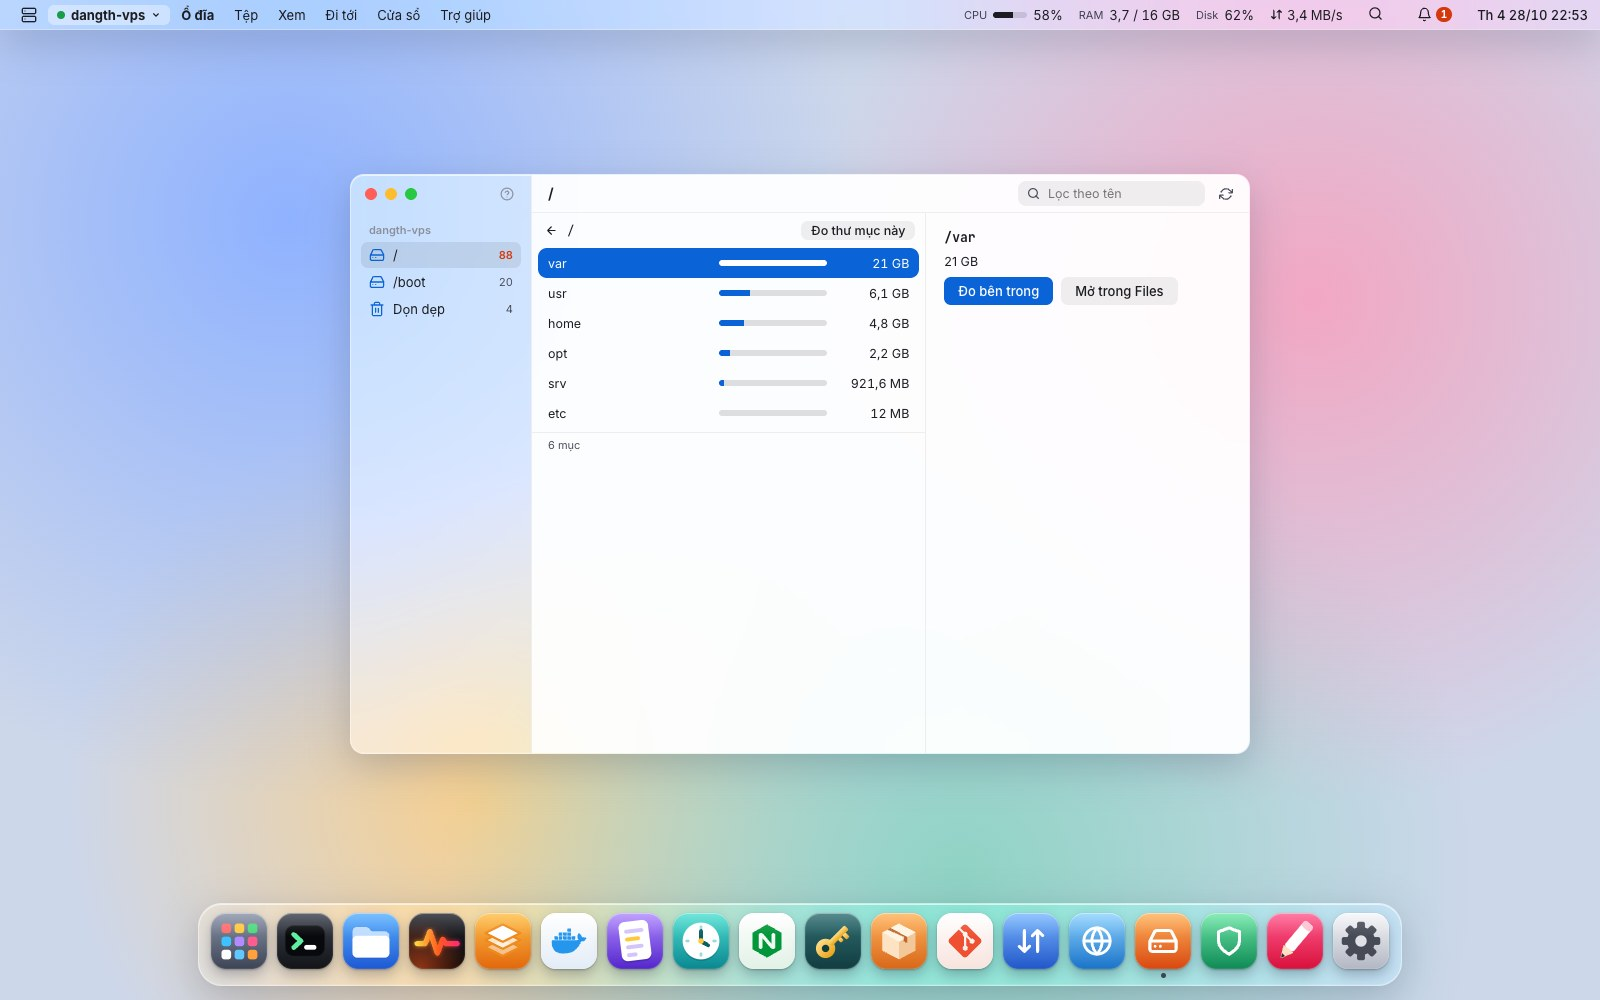
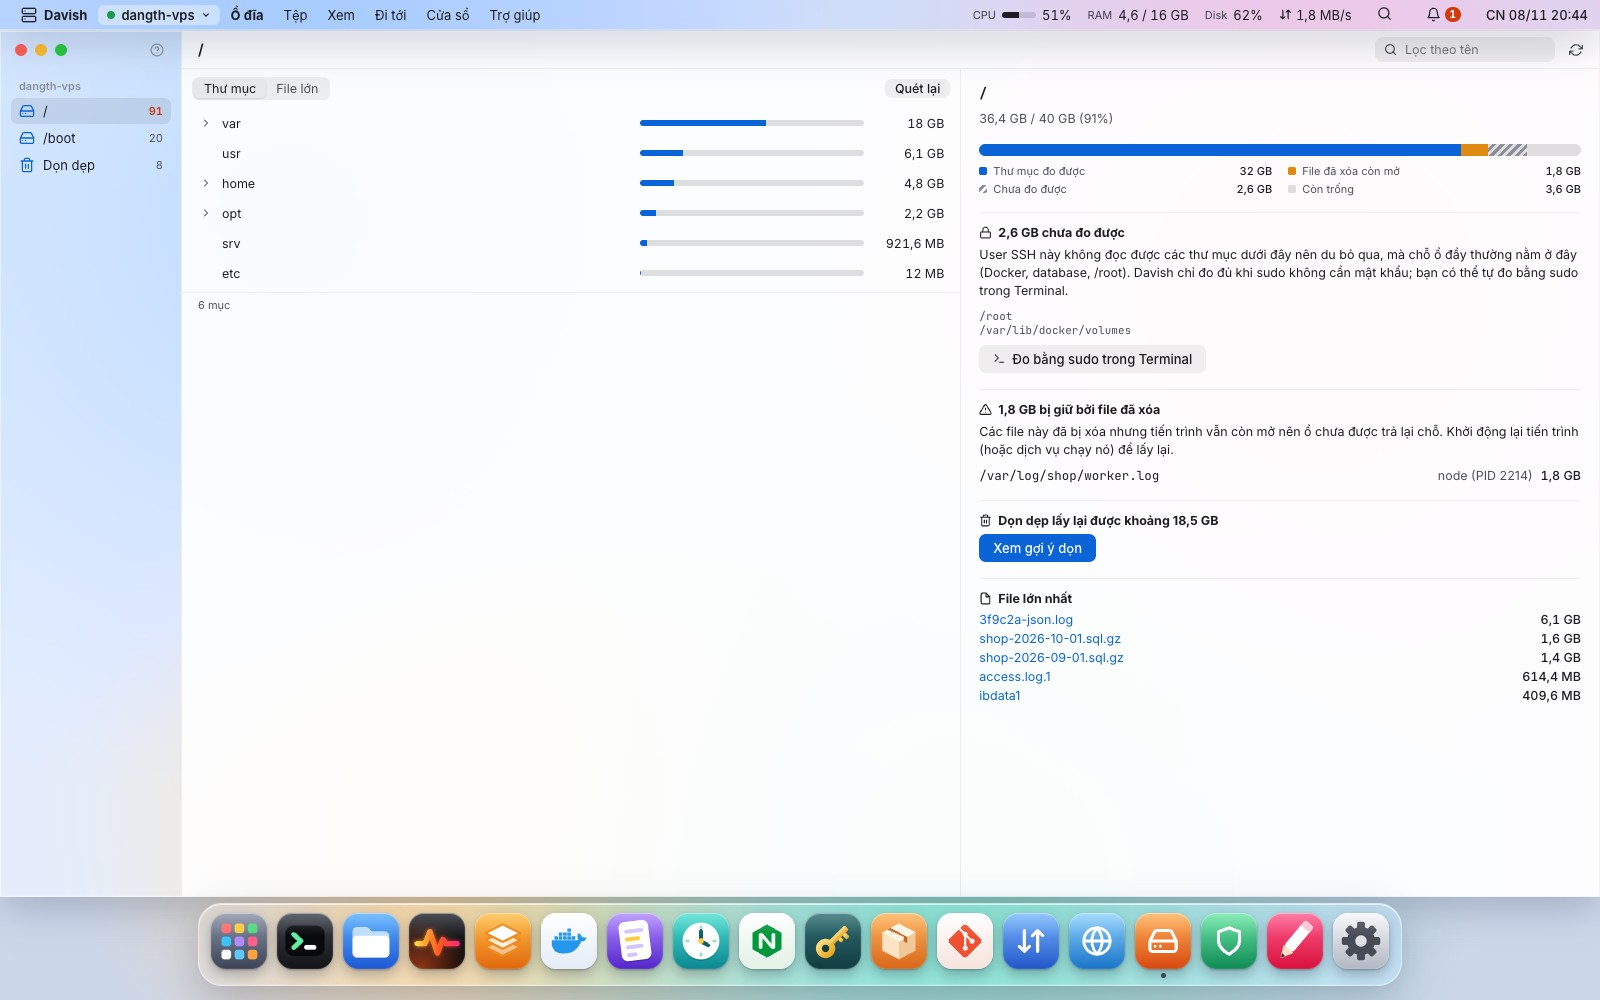
docs(repo): document the disk overview, tree and cleanups
Also keeps a cleanup's file count apart from its size, and lets long
cleanup commands wrap between words.

diff --git a/frontend/src/lib/i18n/vi.ts b/frontend/src/lib/i18n/vi.ts
@@ -906,13 +906,20 @@ const vi = {
         ],
       },
       disk: {
-        does: 'Thứ gì chiếm ổ đĩa: đo từng thư mục một, đi sâu từng tầng; gợi ý dọn dẹp kèm dung lượng lấy lại.',
-        actions: ['Đo thư mục, bấm đúp để đi sâu', 'Dọn Docker, journal, log cũ, cache gói'],
-        keys: ['Enter: đi sâu', 'Backspace: lên thư mục cha'],
+        does: 'Ổ đĩa nặng ở đâu: quét cả ổ một lần, xem dạng cây và file lớn nhất, chỉ ra phần chưa đo được và file đã xóa còn bị giữ; dọn, xóa hoặc làm rỗng file.',
+        actions: [
+          'Tổng quan: thanh ổ đĩa theo phần, lý do phần chưa đo được, file đã xóa còn mở',
+          'Cây thư mục: bấm mũi tên hoặc bấm đúp để mở, tầng sâu được đo khi mở',
+          'File lớn: file từ 50 MB, làm rỗng (log) hoặc xóa',
+          'Dọn dẹp: Docker (image, container, cache build, volume, log), journal, log cũ, cache gói, /tmp, snap, ~/.cache, npm',
+          'Xóa thư mục hoặc file sau khi xem đúng lệnh; từ 1 GB hoặc thư mục có nội dung thì gõ tên; không xóa thư mục hệ thống',
+        ],
+        keys: ['Enter, →: mở thư mục', '←: thu gọn, lên thư mục cha'],
         runs: [
-          'df, du -x -d 1 (khi bấm Đo)',
-          'docker system df, journalctl --disk-usage, find /var/log',
-          'lệnh dọn dẹp (có xác nhận, cần root thì qua Terminal)',
+          'df, du -x -d 3, find -size +50M, /proc/*/fd (qua sudo -n nếu không cần mật khẩu)',
+          'du -x -d 1 khi mở thư mục sâu hơn',
+          'docker system df, journalctl --disk-usage, find',
+          'rm, truncate, lệnh dọn dẹp (có xác nhận, cần root thì qua Terminal)',
         ],
       },
       ports: {

diff --git a/frontend/src/lib/i18n/en.ts b/frontend/src/lib/i18n/en.ts
@@ -918,16 +918,20 @@ const en = {
         ],
       },
       disk: {
-        does: 'What fills the disk: measure one folder at a time, drill down level by level; cleanup suggestions with the space they free.',
+        does: 'Where a disk’s space goes: one scan of the whole disk, as a tree and the largest files, with what could not be measured and deleted files still held; clean up, delete or empty files.',
         actions: [
-          'Measure a folder, double-click to drill down',
-          'Clean Docker, the journal, old logs, package caches',
+          'Overview: the disk split by part, why some is not measured, deleted files still open',
+          'Folder tree: click the arrow or double-click to open; deeper levels are measured when opened',
+          'Large files: files from 50 MB, empty (logs) or delete',
+          'Clean up: Docker (images, containers, build cache, volumes, logs), the journal, old logs, package caches, /tmp, snap, ~/.cache, npm',
+          'Delete a folder or file after seeing the exact command; from 1 GB or a folder with content, type its name; system folders are refused',
         ],
-        keys: ['Enter: drill down', 'Backspace: up to the parent folder'],
+        keys: ['Enter, →: open a folder', '←: collapse, up to the parent'],
         runs: [
-          'df, du -x -d 1 (when you click Measure)',
-          'docker system df, journalctl --disk-usage, find /var/log',
-          'cleanup commands (with confirmation; through Terminal when root is needed)',
+          'df, du -x -d 3, find -size +50M, /proc/*/fd (through sudo -n when it needs no password)',
+          'du -x -d 1 when opening a deeper folder',
+          'docker system df, journalctl --disk-usage, find',
+          'rm, truncate, cleanup commands (with confirmation; through Terminal when root is needed)',
         ],
       },
       ports: {

diff --git a/frontend/src/apps/disk/DiskApp.svelte b/frontend/src/apps/disk/DiskApp.svelte
@@ -381,8 +381,7 @@
         {@const c = selCleanup}
         <h3>{d.cleanups[c.id]?.title ?? c.id}</h3>
         <p>
-          {d.frees(formatBytes(c.bytes))}{#if c.count}
-            · {d.files(c.count)}{/if}
+          {d.frees(formatBytes(c.bytes))}{#if c.count}{` · ${d.files(c.count)}`}{/if}
         </p>
         {#if c.danger}<p class="danger">{d.dangerous}</p>{/if}
         <pre class="command">{c.root ? c.sudoCommand : c.command}</pre>
@@ -641,7 +640,7 @@
     font-family: var(--font-mono);
     font-size: var(--text-xs);
     white-space: pre-wrap;
-    word-break: break-all;
+    overflow-wrap: anywhere;
   }
 
   .actions {

diff --git a/FEATURES.md b/FEATURES.md
@@ -122,10 +122,14 @@ Type `localhost:3000` and see the web app running on the server, inside a Davish
 
 ## Disk
 
-What fills each disk, one folder at a time and deeper on a double click, without scanning the whole tree. Cleanups with the space they free (Docker, the journal, rotated logs, package caches), each showing its exact command; a full-disk alert opens it at the right mount.
+Where each disk's space goes, from one scan of the whole disk (as root through `sudo -n` when sudo needs no password). The overview splits the disk into measured folders, deleted files a process still holds open, what could not be measured and free space, and explains the gaps: the folders this user cannot read, with a `sudo du` to run in a terminal, and which process holds which deleted file. Folders open in place as a tree, deeper levels measured when opened; a Large files tab lists every file from 50 MB.
+
+Delete a folder or file, or empty a file such as a log so the program writing it carries on, after seeing the exact command; anything from 1 GB, or a folder with content, asks for its name. System folders, package databases, Docker's and databases' data and home folders are refused, and root's files go to a terminal with `sudo`. Cleanups list the space they free: Docker images, stopped containers, build cache, volumes (flagged as data) and container logs, the journal, rotated logs, package caches, crash dumps, old temporary files, old snap revisions, `~/.cache` and the npm cache, each with its exact command. A full-disk alert opens it at the right mount.
+
+<p><img src="assets/screenshots/disk.jpg" alt="Disk overview: what is measured, what is not and why, deleted files still open"></p>
 
 <table><tr>
-  <td><img src="assets/screenshots/disk.jpg" alt="What fills the disk, one folder at a time"></td>
+  <td><img src="assets/screenshots/disk-tree.jpg" alt="Folders as a tree, Docker's containers selected"></td>
   <td><img src="assets/screenshots/disk-clean.jpg" alt="Cleanups with the space they free"></td>
 </tr></table>
 

diff --git a/CHANGELOG.md b/CHANGELOG.md
@@ -4,6 +4,14 @@ Mọi thay đổi đáng chú ý của Davish. Định dạng theo [Keep a Chang
 
 ## [Unreleased]
 
+### Thêm
+- Ổ đĩa: mở một ổ là quét cả ổ một lần và hiện tổng quan: thanh chia thành thư mục đo được, file đã xóa còn bị giữ, phần chưa đo được và chỗ trống. Phần chưa đo được có lý do: thư mục user SSH không đọc được (kèm lệnh `sudo du` gõ sẵn vào Terminal), file đã xóa mà tiến trình nào còn giữ. Khi sudo không cần mật khẩu thì đo bằng root nên thấy đủ.
+- Ổ đĩa: thư mục dạng cây mở tại chỗ, tab File lớn (từ 50 MB). Xóa thư mục hoặc file, làm rỗng file log, sau khi xem đúng lệnh; từ 1 GB hoặc thư mục có nội dung thì gõ tên. Thư mục hệ thống, dữ liệu Docker và database, thư mục home không xóa được từ đây.
+- Dọn dẹp: Docker tách thành image không dùng, container dừng, cache build, volume (cảnh báo là dữ liệu) và log container quá 10 MB; thêm dump lỗi, file tạm cũ hơn 7 ngày, bản snap cũ, `~/.cache`, cache npm.
+
+### Sửa
+- Dọn dẹp Docker từng chạy `docker system prune -f`, chỉ xóa image treo, nên ổ vẫn đầy dù app báo lấy lại được nhiều GB. Giờ mỗi loại có lệnh riêng đúng với dung lượng hiện ra.
+
 ## [1.6.2] - 2026-11-08
 
 ### Sửa

diff --git a/README.vi.md b/README.vi.md
@@ -58,7 +58,7 @@ Không cài gì lên server.
 
 - [Cổng và tunnel](FEATURES.vi.md#cổng-và-tunnel): cổng đang nghe, tunnel về `127.0.0.1`
 - [Trình duyệt](FEATURES.vi.md#trình-duyệt): mở `localhost:3000` của server ngay trong Davish
-- [Ổ đĩa](FEATURES.vi.md#ổ-đĩa): thứ gì chiếm ổ đĩa, gợi ý dọn dẹp
+- [Ổ đĩa](FEATURES.vi.md#ổ-đĩa): nặng ở đâu dạng cây, phần chưa đo được và lý do, xóa và dọn dẹp
 - [An ninh](FEATURES.vi.md#an-ninh): đăng nhập sai theo IP, ufw, fail2ban
 - [Khóa SSH](FEATURES.vi.md#khóa-ssh): authorized_keys, deploy key, key trên máy
 - [~/.ssh/config và ProxyJump](FEATURES.vi.md#sshconfig-và-proxyjump): nhập host, kết nối qua bastion

diff --git a/README.md b/README.md
@@ -58,7 +58,7 @@ Nothing to install on the server.
 
 - [Ports & tunnels](FEATURES.md#ports--tunnels): listening ports, tunnels to `127.0.0.1`
 - [Browser](FEATURES.md#browser): open the server's `localhost:3000` inside Davish
-- [Disk](FEATURES.md#disk): what fills the disk, cleanups
+- [Disk](FEATURES.md#disk): where the space goes as a tree, what could not be measured and why, delete and clean up
 - [Security](FEATURES.md#security): failed logins by address, ufw, fail2ban
 - [SSH keys](FEATURES.md#ssh-keys): authorized_keys, deploy keys, your own keys
 - [~/.ssh/config and ProxyJump](FEATURES.md#sshconfig-and-proxyjump): import hosts, connect through a bastion
